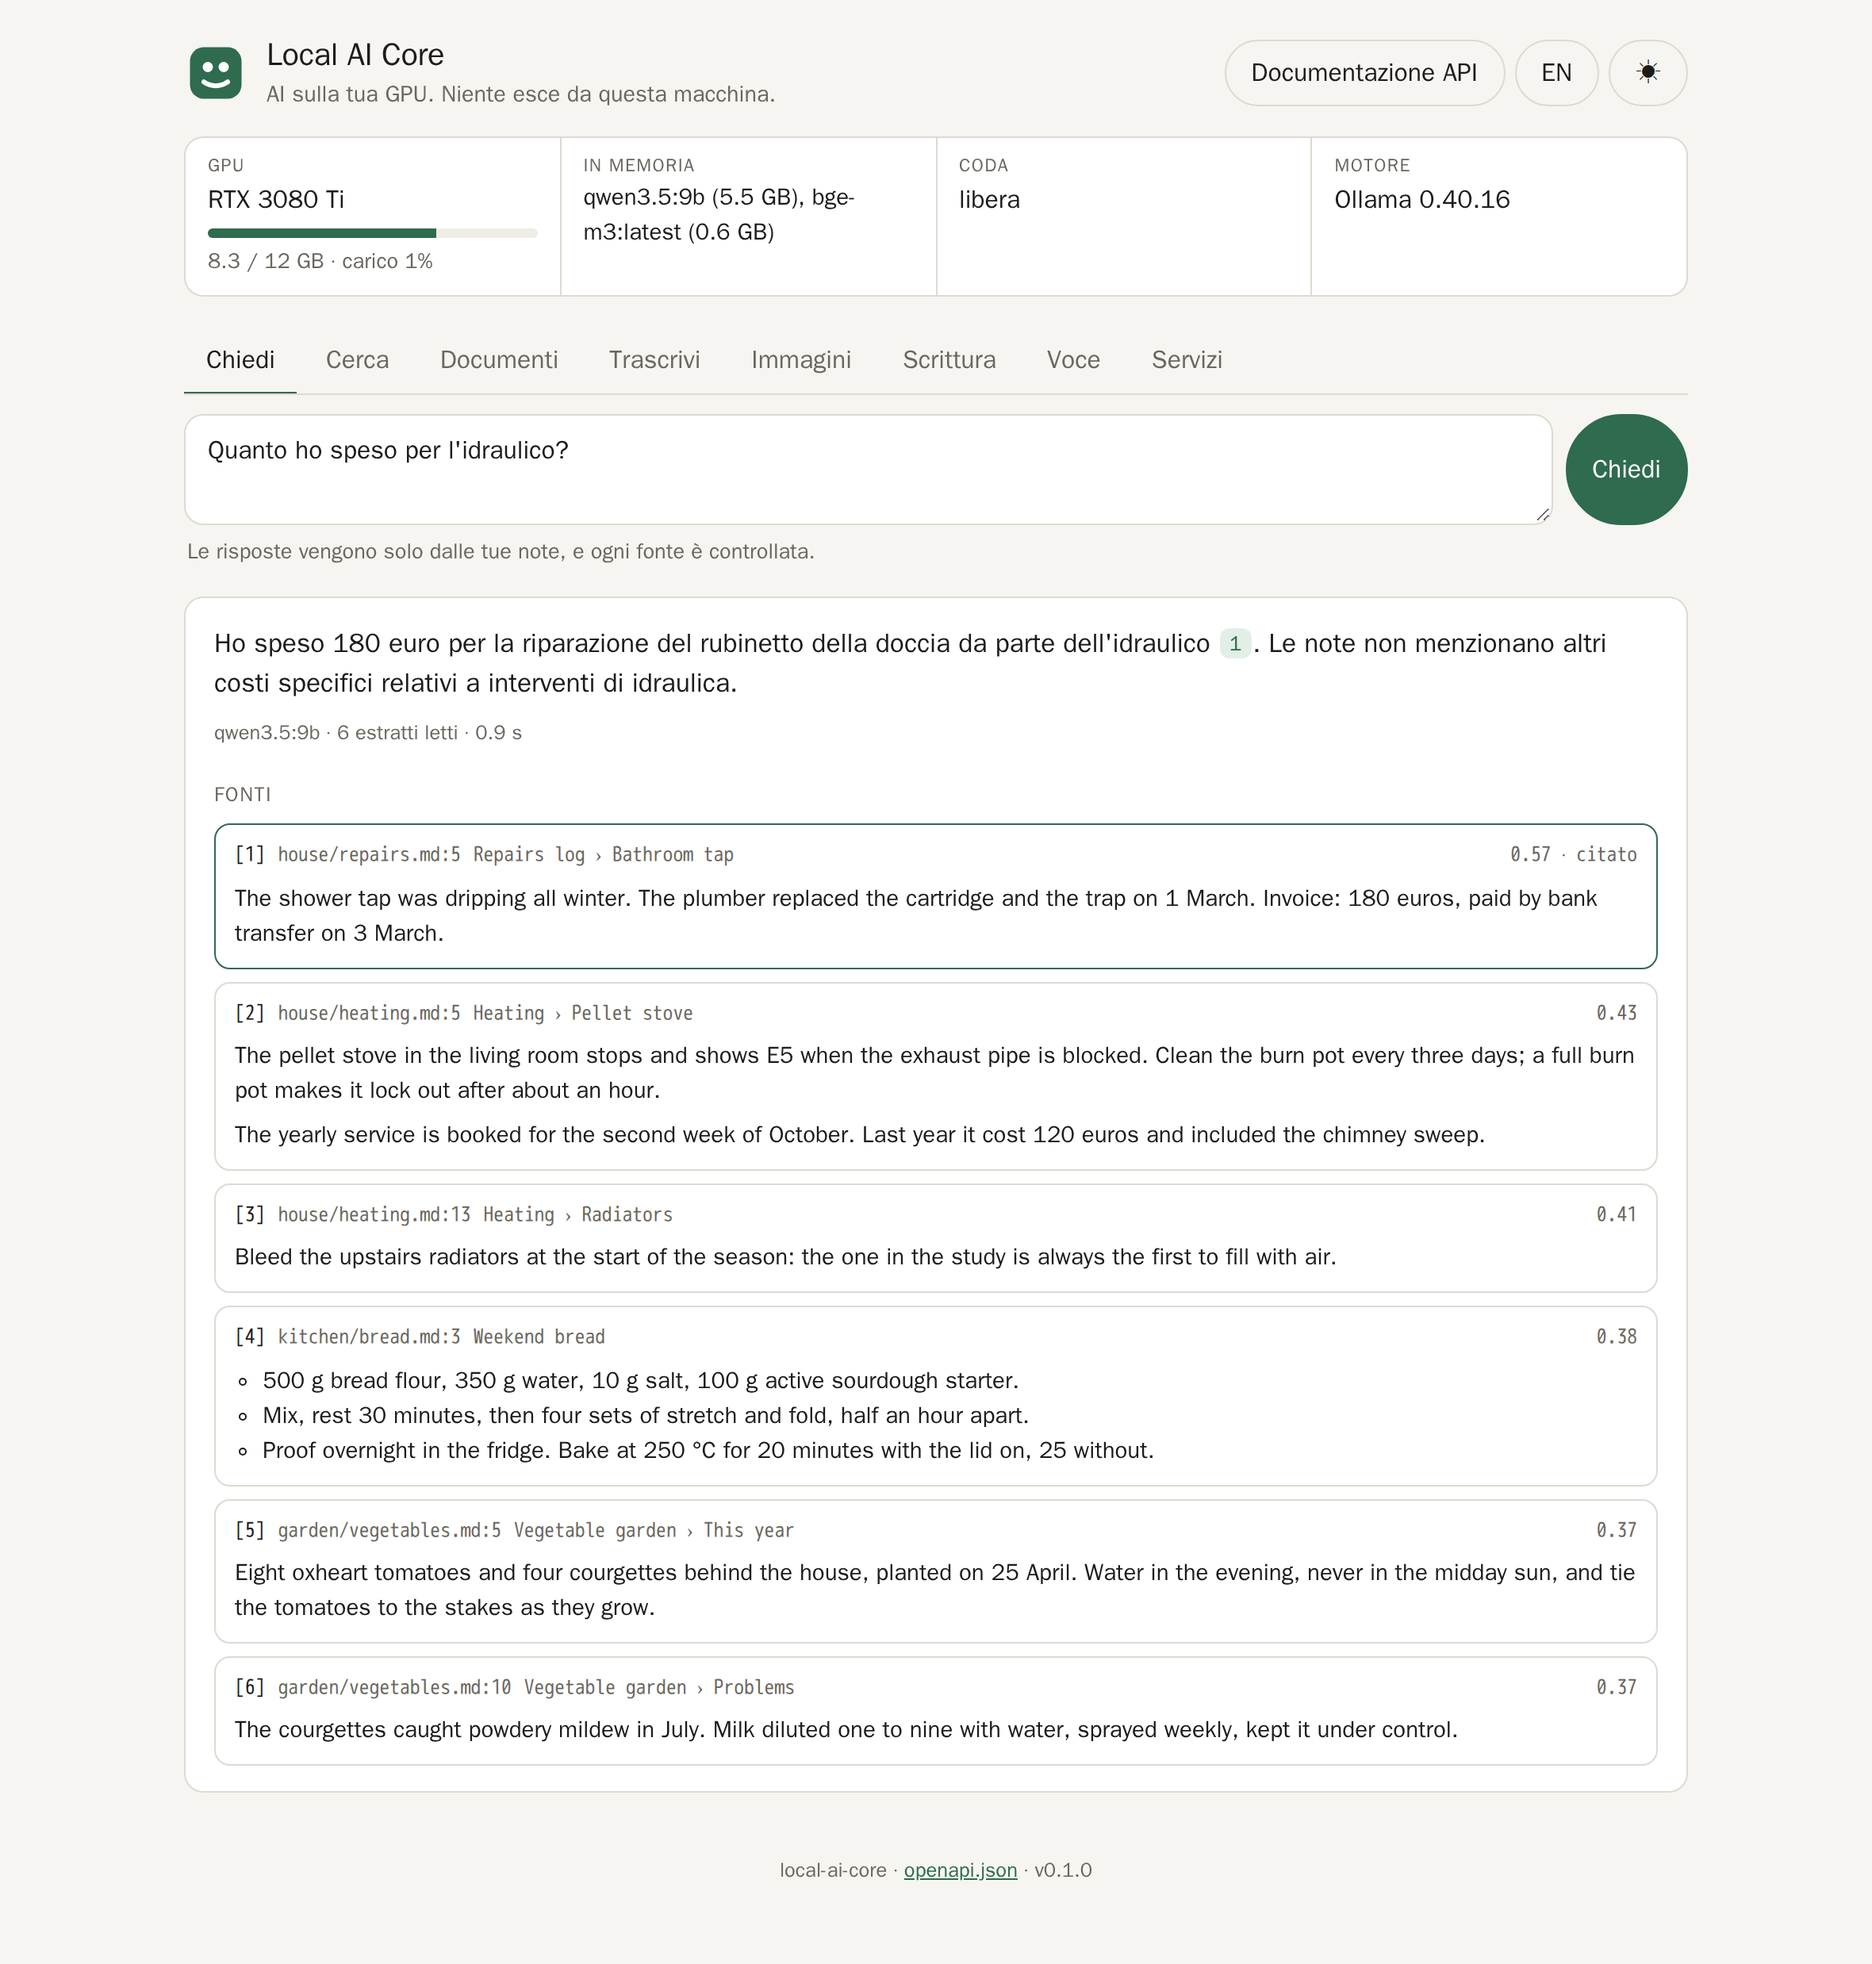
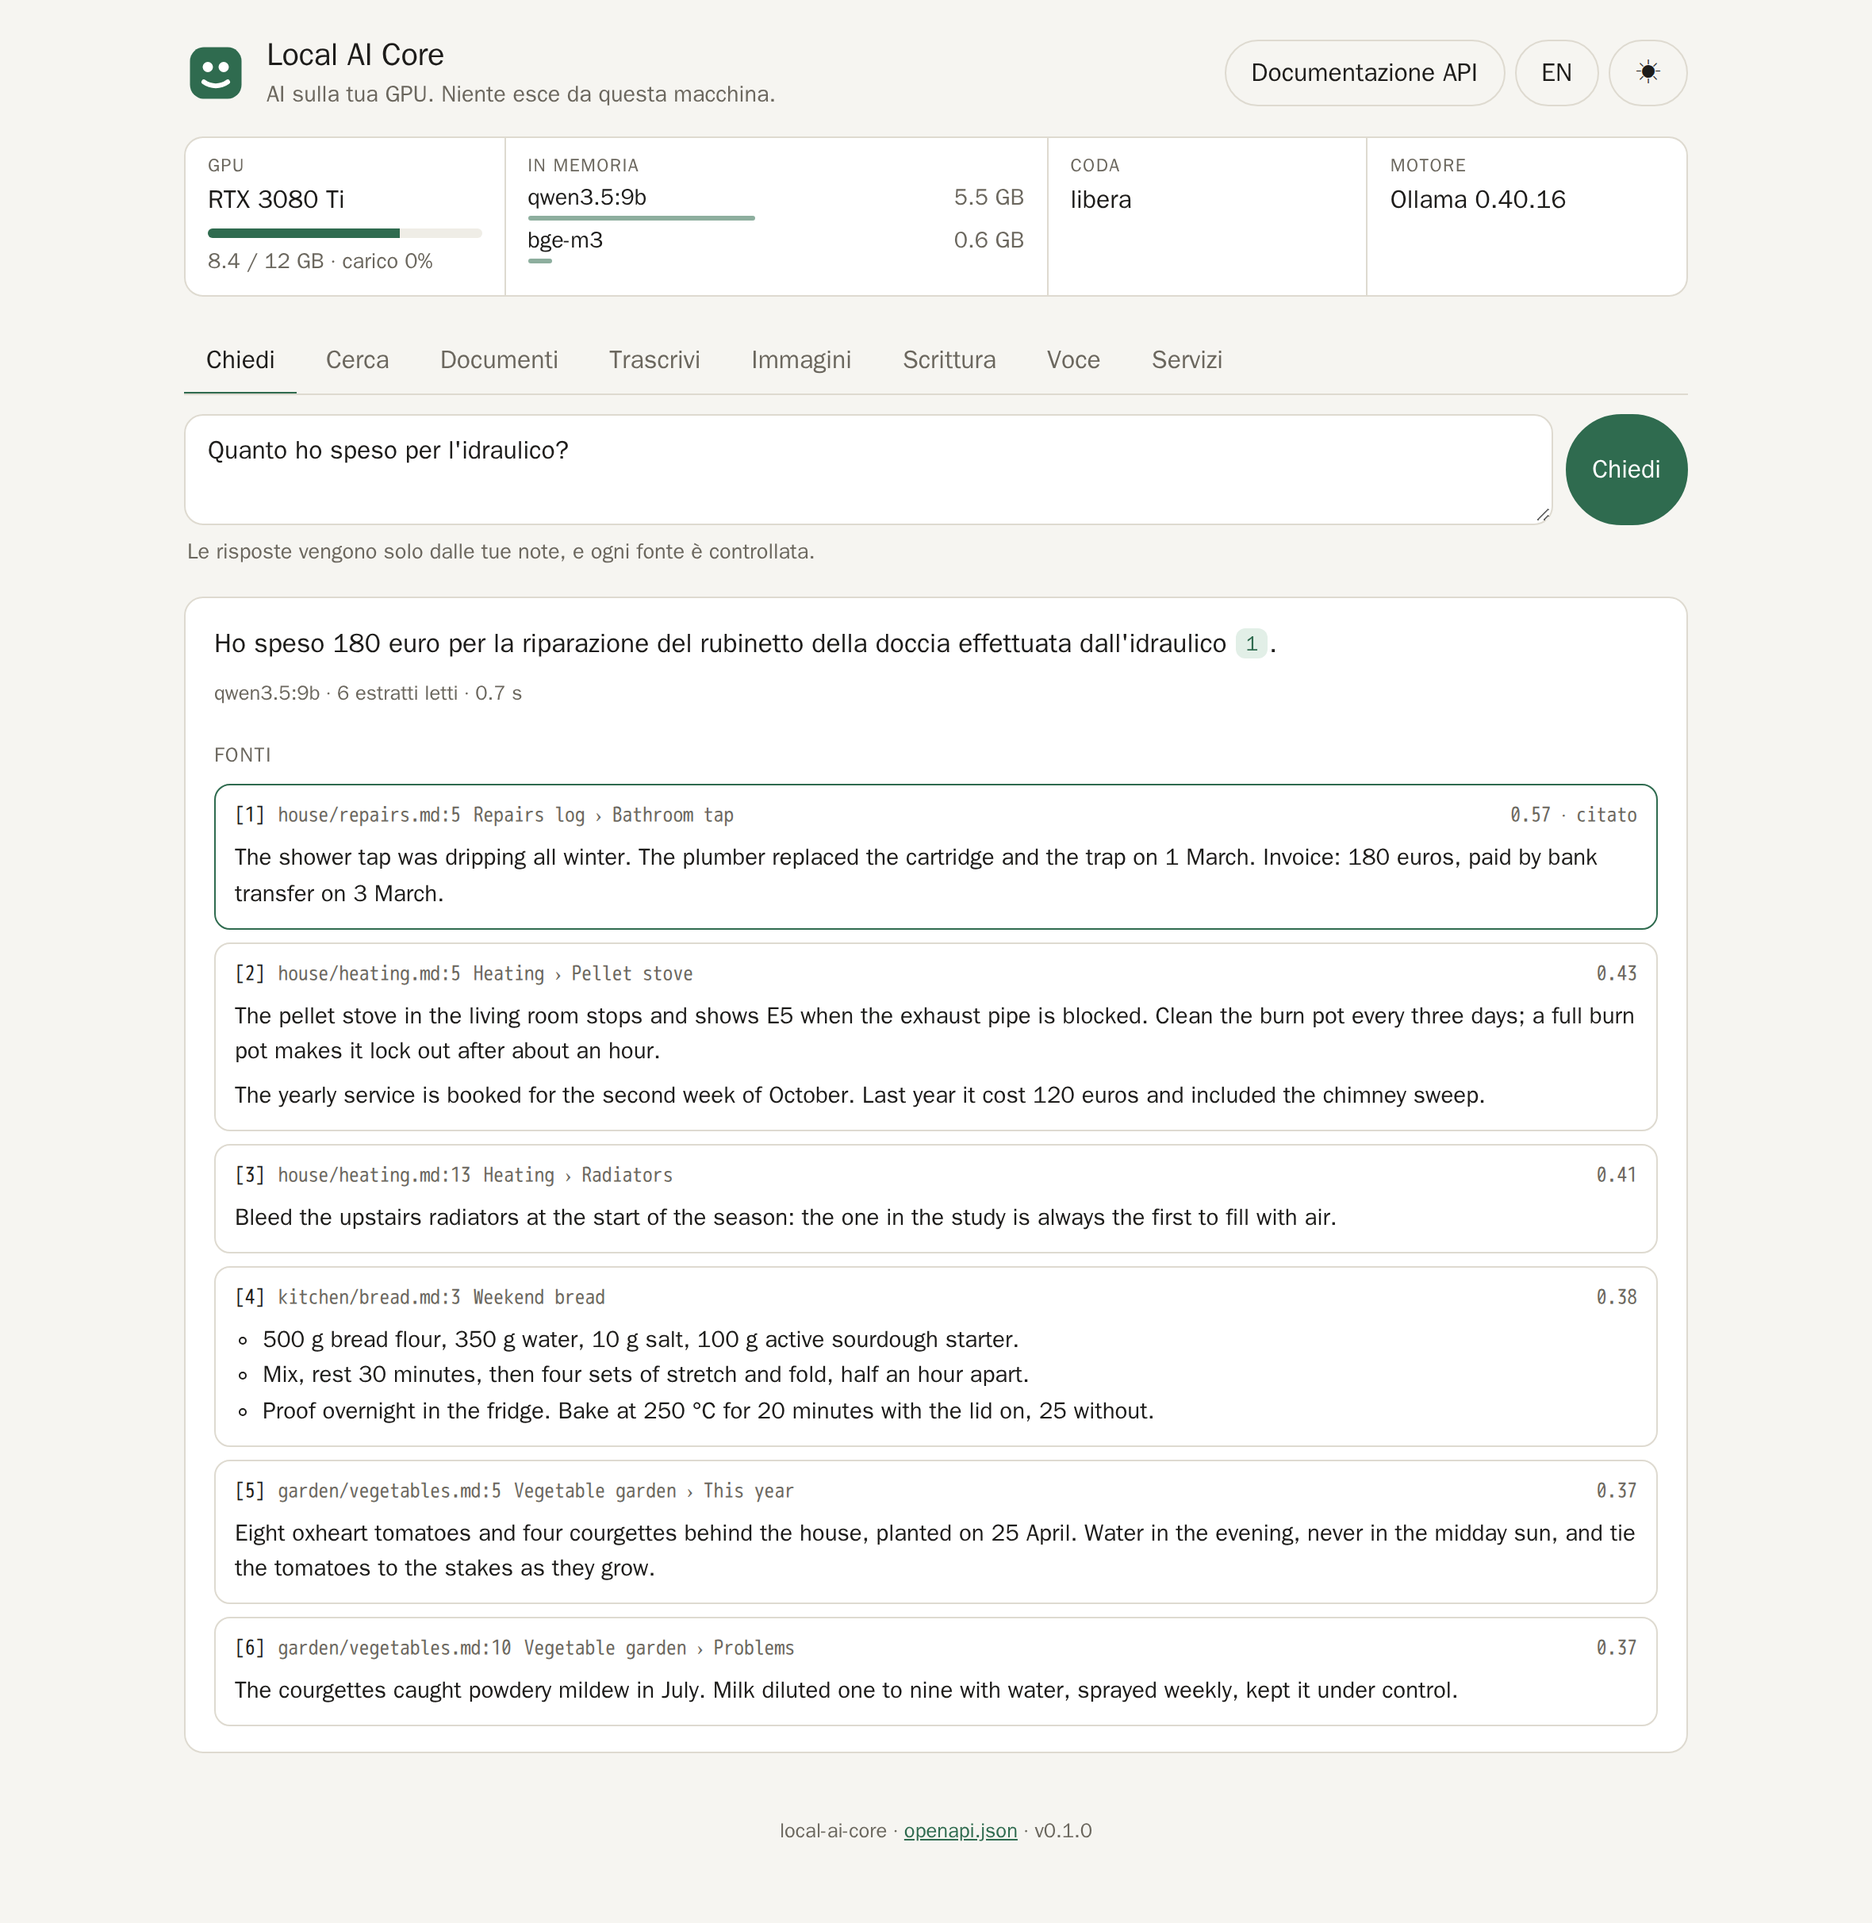
Status bar: one model per line with its memory, service names in the page's language
The In memory cell showed the first model and part of the second. Now each
model has its own line (name, GB, a bar for its share of the card), largest
first, in a wider column; on a phone the GPU and memory take a full row.
Service names from the API are shown in the page's language.

Claude-Session: https://claude.ai/code/session_01GiECdByJzjzej9vs7GMxRp

diff --git a/gateway/static/app.js b/gateway/static/app.js
@@ -88,6 +88,9 @@ const T = {
     error: "Errore",
     vram_est: "~{e} GB stimati", loaded: "modelli caricati", not_loaded: "modelli non caricati",
     tab_handwriting: "Scrittura", tab_voice: "Voce",
+    svc_search: "Ricerca per significato", svc_ask: "Domande sulle note", svc_documents: "Documenti in Markdown",
+    svc_transcribe: "Trascrizione", svc_speakers: "Chi ha detto cosa", svc_images: "Immagini",
+    svc_handwriting: "Scrittura a mano", svc_voice: "Voce",
     hw_off: "Il servizio di scrittura a mano è spento: avvia lo stack con docker compose --profile handwriting up -d.",
     hw_drop: "Trascina qui la foto di una pagina scritta a mano, o sceglila", hw_expect_sum: "Controlla che legga un testo",
     hw_expect_ph: "Il testo che dice la pagina: il risultato mostra quanto la lettura ci si avvicina.", hw_go: "Leggi",
@@ -136,6 +139,9 @@ let lang = store.get("lang") || ((navigator.language || "en").startsWith("it") ?
 const $ = (s) => document.querySelector(s);
 const t = (k, vars = {}) => (T[lang][k] ?? T.en[k] ?? k).replace(/\{(\w+)\}/g, (_, v) => vars[v] ?? "");
 const esc = (s) => String(s ?? "").replace(/[&<>"']/g, (c) => ({ "&": "&amp;", "<": "&lt;", ">": "&gt;", '"': "&quot;", "'": "&#39;" }[c]));
+
+// The services' names come from the API in English: the page shows them in its own language.
+const svcName = (name, title) => (T[lang][`svc_${name}`] ?? title ?? name);
 
 // ------------------------------------------------------------------------------------------- API
 
@@ -224,12 +230,17 @@ async function refreshStatus() {
     $("#st-vram-bar").classList.toggle("hot", p > 85);
     $("#st-vram").textContent = `${g.vram_used_gb} / ${g.vram_total_gb} GB · ${t("load")} ${g.utilization}%`;
   }
-  // Ollama's models with the VRAM it measures; the workers with their own estimate (~): per-process
-  // memory cannot be told apart from inside a container
-  const held = (st.ollama.loaded || []).map((m) => `${m.name} (${m.vram_gb} GB)`)
-    .concat((st.workers || []).map((w) => `${w.title} (~${w.vram_gb_estimate} GB)`));
-  $("#st-loaded").textContent = held.length ? held.join(", ") : t("nothing");
-  $("#st-loaded").title = held.join("\n");
+  // One line per model: Ollama's with the VRAM it measures, the workers' with their own estimate (~),
+  // since per-process memory cannot be told apart from inside a container. Largest first; the bar is the
+  // share of the card it takes.
+  const total = (g && g.vram_total_gb) || 12;
+  const held = (st.ollama.loaded || []).map((m) => ({ name: m.name.replace(/:latest$/, ""), gb: m.vram_gb, est: false, by: "Ollama" }))
+    .concat((st.workers || []).map((w) => ({ name: svcName(w.service, w.title), gb: w.vram_gb_estimate, est: true, by: w.model })))
+    .sort((a, b) => b.gb - a.gb);
+  $("#st-loaded").innerHTML = held.length ? held.map((h) => `<li title="${esc(h.by)}">
+      <span class="n">${esc(h.name)}</span><span class="gb">${h.est ? "~" : ""}${h.gb} GB</span>
+      <i style="width:${Math.min(100, (100 * h.gb) / total)}%"></i></li>`).join("")
+    : `<li class="none">${t("nothing")}</li>`;
   const q = st.queue;
   $("#st-queue").textContent = q.running ? `${t("running")}: ${q.running.kind}${q.waiting ? ` · ${q.waiting} ${t("waiting")}` : ""}` : t("idle");
   $("#st-ollama").textContent = st.ollama.reachable ? `Ollama ${st.ollama.version}` : t("unreachable");
@@ -367,7 +378,7 @@ async function loadServices() {
     const lt = s.last_test;
     const test = lt ? `<span class="${lt.ok ? "ok" : "ko"}">${lt.ok ? "✓" : "✗"} ${t(lt.ok ? "passed" : "failed")}</span> · ${esc(lt.date)}` : t("never");
     return `<article class="card" data-name="${esc(s.name)}">
-      <h2>${esc(s.title || s.name)} <span class="badge ${STATE_CLASS[s.state] || ""}">${esc(t("st_" + s.state))}</span></h2>
+      <h2>${esc(svcName(s.name, s.title))} <span class="badge ${STATE_CLASS[s.state] || ""}">${esc(t("st_" + s.state))}</span></h2>
       ${s.description ? `<p>${esc(s.description)}</p>` : ""}${s.detail ? `<p>${esc(s.detail)}</p>` : ""}${s.note ? `<p>${esc(s.note)}</p>` : ""}
       ${s.model ? `<dl class="facts">
         <dt>${t("model")}</dt><dd>${esc(s.model)}</dd>

diff --git a/gateway/static/style.css b/gateway/static/style.css
@@ -67,13 +67,18 @@ h3 { font-size: .8rem; text-transform: uppercase; letter-spacing: .06em; color: 
 :focus-visible { outline: 2px solid var(--accent); outline-offset: 2px; }
 
 .status {
-  display: grid; grid-template-columns: repeat(4, minmax(0, 1fr)); gap: 1px; background: var(--line);
+  display: grid; grid-template-columns: minmax(0, 1fr) minmax(0, 1.7fr) minmax(0, 1fr) minmax(0, 1fr); gap: 1px; background: var(--line);
   border: 1px solid var(--line); border-radius: var(--radius); overflow: hidden;
 }
 .stat { background: var(--surface); padding: 10px 14px; min-width: 0; }
 .stat .k { display: block; font-size: .72rem; text-transform: uppercase; letter-spacing: .06em; color: var(--muted); }
 .stat .v { display: block; font-weight: 600; overflow: hidden; text-overflow: ellipsis; white-space: nowrap; }
-#st-loaded { white-space: normal; display: -webkit-box; -webkit-line-clamp: 3; -webkit-box-orient: vertical; font-size: .92rem; }
+.held { list-style: none; margin: 2px 0 0; padding: 0; display: grid; gap: 4px; }
+.held li { display: grid; grid-template-columns: minmax(0, 1fr) auto; column-gap: 8px; font-size: .9rem; line-height: 1.25; }
+.held .n { font-weight: 600; overflow: hidden; text-overflow: ellipsis; white-space: nowrap; }
+.held .gb { color: var(--muted); font-variant-numeric: tabular-nums; }
+.held i { grid-column: 1 / -1; display: block; height: 3px; border-radius: 2px; background: var(--accent); opacity: .55; margin-top: 2px; }
+.held .none { display: block; font-weight: 600; }
 .sub { color: var(--muted); font-size: .85rem; }
 .bar { height: 6px; border-radius: 3px; background: var(--surface-2); overflow: hidden; margin: 6px 0 2px; }
 .bar i { display: block; height: 100%; width: 0; background: var(--accent); transition: width .4s; }
@@ -219,6 +224,7 @@ footer { margin-top: 40px; color: var(--muted); font-size: .8rem; text-align: ce
 
 @media (max-width: 640px) {
   .status { grid-template-columns: repeat(2, minmax(0, 1fr)); }
+  .stat:first-child, .stat.mem { grid-column: 1 / -1; }
   .query { flex-direction: column; }
   .tagline { display: none; }
   .tab { padding: 8px 10px; }

diff --git a/gateway/static/index.html b/gateway/static/index.html
@@ -27,7 +27,7 @@
 <section class="status" id="status" aria-live="polite">
   <div class="stat"><span class="k" data-i18n="gpu">GPU</span><span class="v" id="st-gpu">—</span>
     <div class="bar" id="st-vram-bar" hidden><i></i></div><span class="sub" id="st-vram"></span></div>
-  <div class="stat"><span class="k" data-i18n="in_memory">In memory</span><span class="v" id="st-loaded">—</span></div>
+  <div class="stat mem"><span class="k" data-i18n="in_memory">In memory</span><ul class="held" id="st-loaded"><li class="none">—</li></ul></div>
   <div class="stat"><span class="k" data-i18n="queue">Queue</span><span class="v" id="st-queue">—</span></div>
   <div class="stat"><span class="k" data-i18n="engine">Engine</span><span class="v" id="st-ollama">—</span></div>
 </section>
